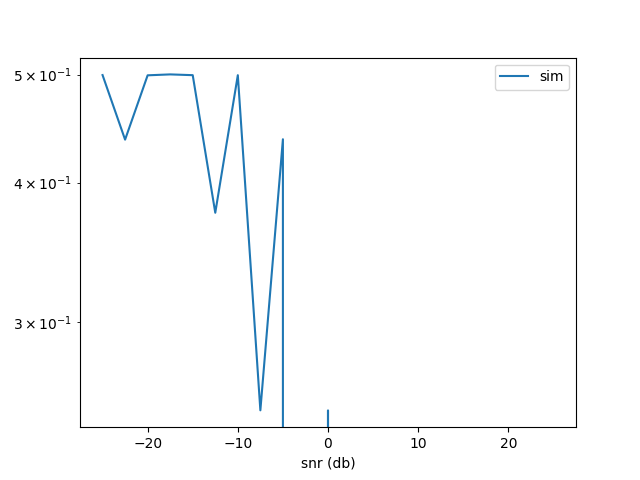
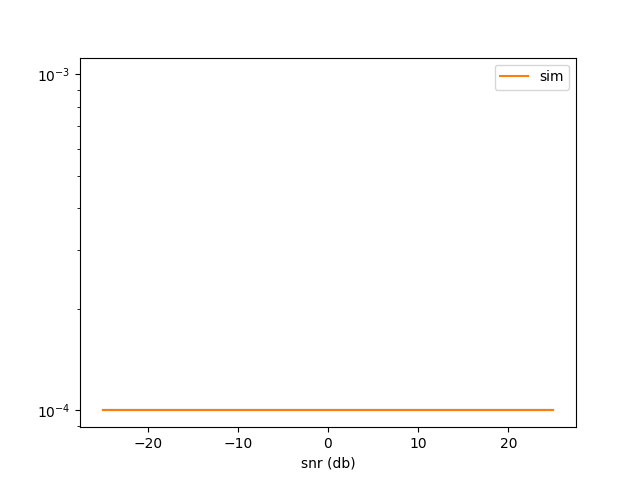
Finaly working version
Needs to be cleaned now....

diff --git a/antenna_diversity/modulation/gmsk.py b/antenna_diversity/modulation/gmsk.py
@@ -1,19 +1,24 @@
-
 import numpy as np
 import typing as t
 import matplotlib.pyplot as plt
 import matplotlib
 import math
-from numpy.core.defchararray import array
 from scipy.signal import upfirdn, lfilter
 
 
-Tb = 1.152e6  # bit period of 1.152Mbps
+def AWGN(sizeofinput, snr):
+    sigma = math.sqrt((1/(snr))/2)
+    W = np.random.standard_normal(size=sizeofinput)*sigma + 1j * \
+        np.random.standard_normal(size=sizeofinput)*sigma
+    return W
+
+
+# Tb = 1.152e6  # bit period of 1.152Mbps
 BTb = 0.5  # bandwith bit period product of BTb = 0.5
 deltaf = 288e3  # Nominal peak peak frequency deviation of 288 kHz
-h = 2*deltaf/Tb
+h = 0.5  # 2*deltaf/Tb
 fc = 1.8e9  # carrier frequency
-L = 16  # oversampling factor must satisfy nyquist sampling theorem
+L = 64  # oversampling factor must satisfy nyquist sampling theorem
 
 
 class SymErrorMeasure:
@@ -31,37 +36,45 @@ class SymErrorMeasure:
 
 def gaussianLPF(BTb, Tb, L, k):  # craete gaussian low pass filter
     B = BTb/Tb  # bandwidth of the filter
-    t = np.arange(start=-k*Tb, stop=k*Tb + Tb/L, step=Tb/L)
-    h = B*np.sqrt(2*np.pi/(np.log(2)) *
-                  np.exp(-2 * (t*np.pi*B)**2 / (np.log(2))))
+    t = np.arange(start=-k*Tb, stop=k*Tb, step=Tb/L)
+    h = B*np.sqrt(2*np.pi/(np.log(2))) * \
+        np.exp(-2 * (t*np.pi*B)**2 / (np.log(2)))
     h_norm = h/np.sum(h)
+    # bit_sequence = np
+    # delta = np.array([1])
+    # test = np.convolve(delta, h_norm)
+    # plt.plot(test)
     return h_norm
 
 
 def modulate_gmsk_signal(bit_sequence):
-    Ts = Tb/L
-    fs = 1/Ts
+    fs = L*fc
+    Ts = 1/fs
+    Tb = L*Ts
+    # Ts = Tb*L  # set sample time to L times bit time Tb
+    # convert to from bit sequence 1 and 0 to NRZ sequence -1 and 1
     c_t = upfirdn(h=[1]*L, x=2*bit_sequence-1, up=L)
-
+    # plt.plot(c_t)
     k = 1  # truncation lenght for Gaussian LPF
     h_t = gaussianLPF(BTb, Tb, L, k)  # get gaussian Low Pass filter
     # convolve the -1,1 sequence with the gaussian filter to get the waveform of the phase
     b_t = np.convolve(h_t, c_t, 'full')
+
     # normalise such that the output is limited between -1 and 1
     bnorm_t = b_t/max(abs(b_t))
+    # plt.plot(bnorm_t)
 
     # integrate over the output of the gaussian filter to get phase information
     phi_t = lfilter(b=[1], a=[1, -1], x=bnorm_t*Ts)*h*np.pi/Tb
-
     I = np.cos(phi_t)  # calculate the inphase
     Q = np.sin(phi_t)  # calculate the quadrature
     return I, Q
 
 
 def demodulate_gmsk_signal(baseband_signal_I, baseband_signal_Q):
-    Ts = Tb/L
-    fs = 1/Ts
-
+    fs = L*fc
+    Ts = 1/fs
+    Tb = L*Ts
     z1 = baseband_signal_I * \
         np.hstack((np.zeros(L), baseband_signal_Q[0:len(baseband_signal_Q)-L]))
     z2 = baseband_signal_Q * \
@@ -72,18 +85,31 @@ def demodulate_gmsk_signal(baseband_signal_I, baseband_signal_Q):
 
 
 def gmsk_awgn(baseband_signal_I, baseband_signal_Q, snr):
-    noiseI = np.random.normal(0, 1/snr*1/2)
-    noiseQ = np.random.normal(0, 1/snr*1/2)
-    I = baseband_signal_I+noiseI
-    Q = baseband_signal_Q+noiseQ
+    noise = AWGN(len(baseband_signal_Q), snr)
+    w_real = np.real(noise)
+    w_imag = np.imag(noise)
+    I = baseband_signal_I+w_real
+    Q = baseband_signal_Q+w_imag
     return I, Q
+
+
+# test = np.array([0.0, 1.0, 2, 3, 2, 1, 0, -1, -2, -
+#                  3, 2, 1, 3, 2, -4, -5, 6, -4, -5])
+# lfilter_res = lfilter(b=[1], a=[1, -1], x=test)
+# print('lfilter:', lfilter_res)
+# integrated = integrator(test)
+# print('integrator', integrated)
+# plt.plot(test)
+# plt.plot(integrated, '.')
+# plt.plot(lfilter_res, '-.')
 
 
 snr = np.arange(start=-25, stop=25+1, step=2.5)
 
-bits_per_snr = 1000000
+bits_per_snr = 10000
 
 bit_error_prob = []
+
 
 for i, gamma in enumerate(snr):
     print(gamma)
@@ -92,23 +118,23 @@ for i, gamma in enumerate(snr):
     I, Q = modulate_gmsk_signal(test_bits)
     I, Q = gmsk_awgn(I, Q, gamma)
     hat_test_bits = demodulate_gmsk_signal(I, Q)
-    SEM = SymErrorMeasure(test_bits)
+    SEM = SymErrorMeasure(test_bits[0:len(test_bits)-1])
     frac, errors, total = SEM.check_against(hat_test_bits)
     bit_error_prob.append(frac)
 
-#plt.plot(snr, bit_error_prob)
-plt.plot(snr, bit_error_prob, label="sim")
+
+plt.plot(snr, bit_error_prob)
 plt.legend()
 plt.xlabel("snr (db)")
 plt.yscale("log")
-plt.savefig("hej.png")
+# plt.savefig("hej.png")
 
 
-test_bits = np.array([1, 1, 1, 0, 0, 0, 1, 0, 1, 0, 1, 1, 0, 0, 1, 0])
-I, Q = modulate_gmsk_signal(test_bits)
-I, Q = gmsk_awgn(I, Q, 0.0001)
+# test_bits = np.array([1, 1, 1, 0, 0, 0, 1, 0, 1, 0, 1, 1, 0, 0, 1, 0])
+# I, Q = modulate_gmsk_signal(test_bits)
+# I, Q = gmsk_awgn(I, Q, 0.0001)
 
-hat_test_bits = demodulate_gmsk_signal(I, Q)
+# hat_test_bits = demodulate_gmsk_signal(I, Q)
 
 # plt.plot(test_bits)
 # plt.plot(hat_test_bits)
